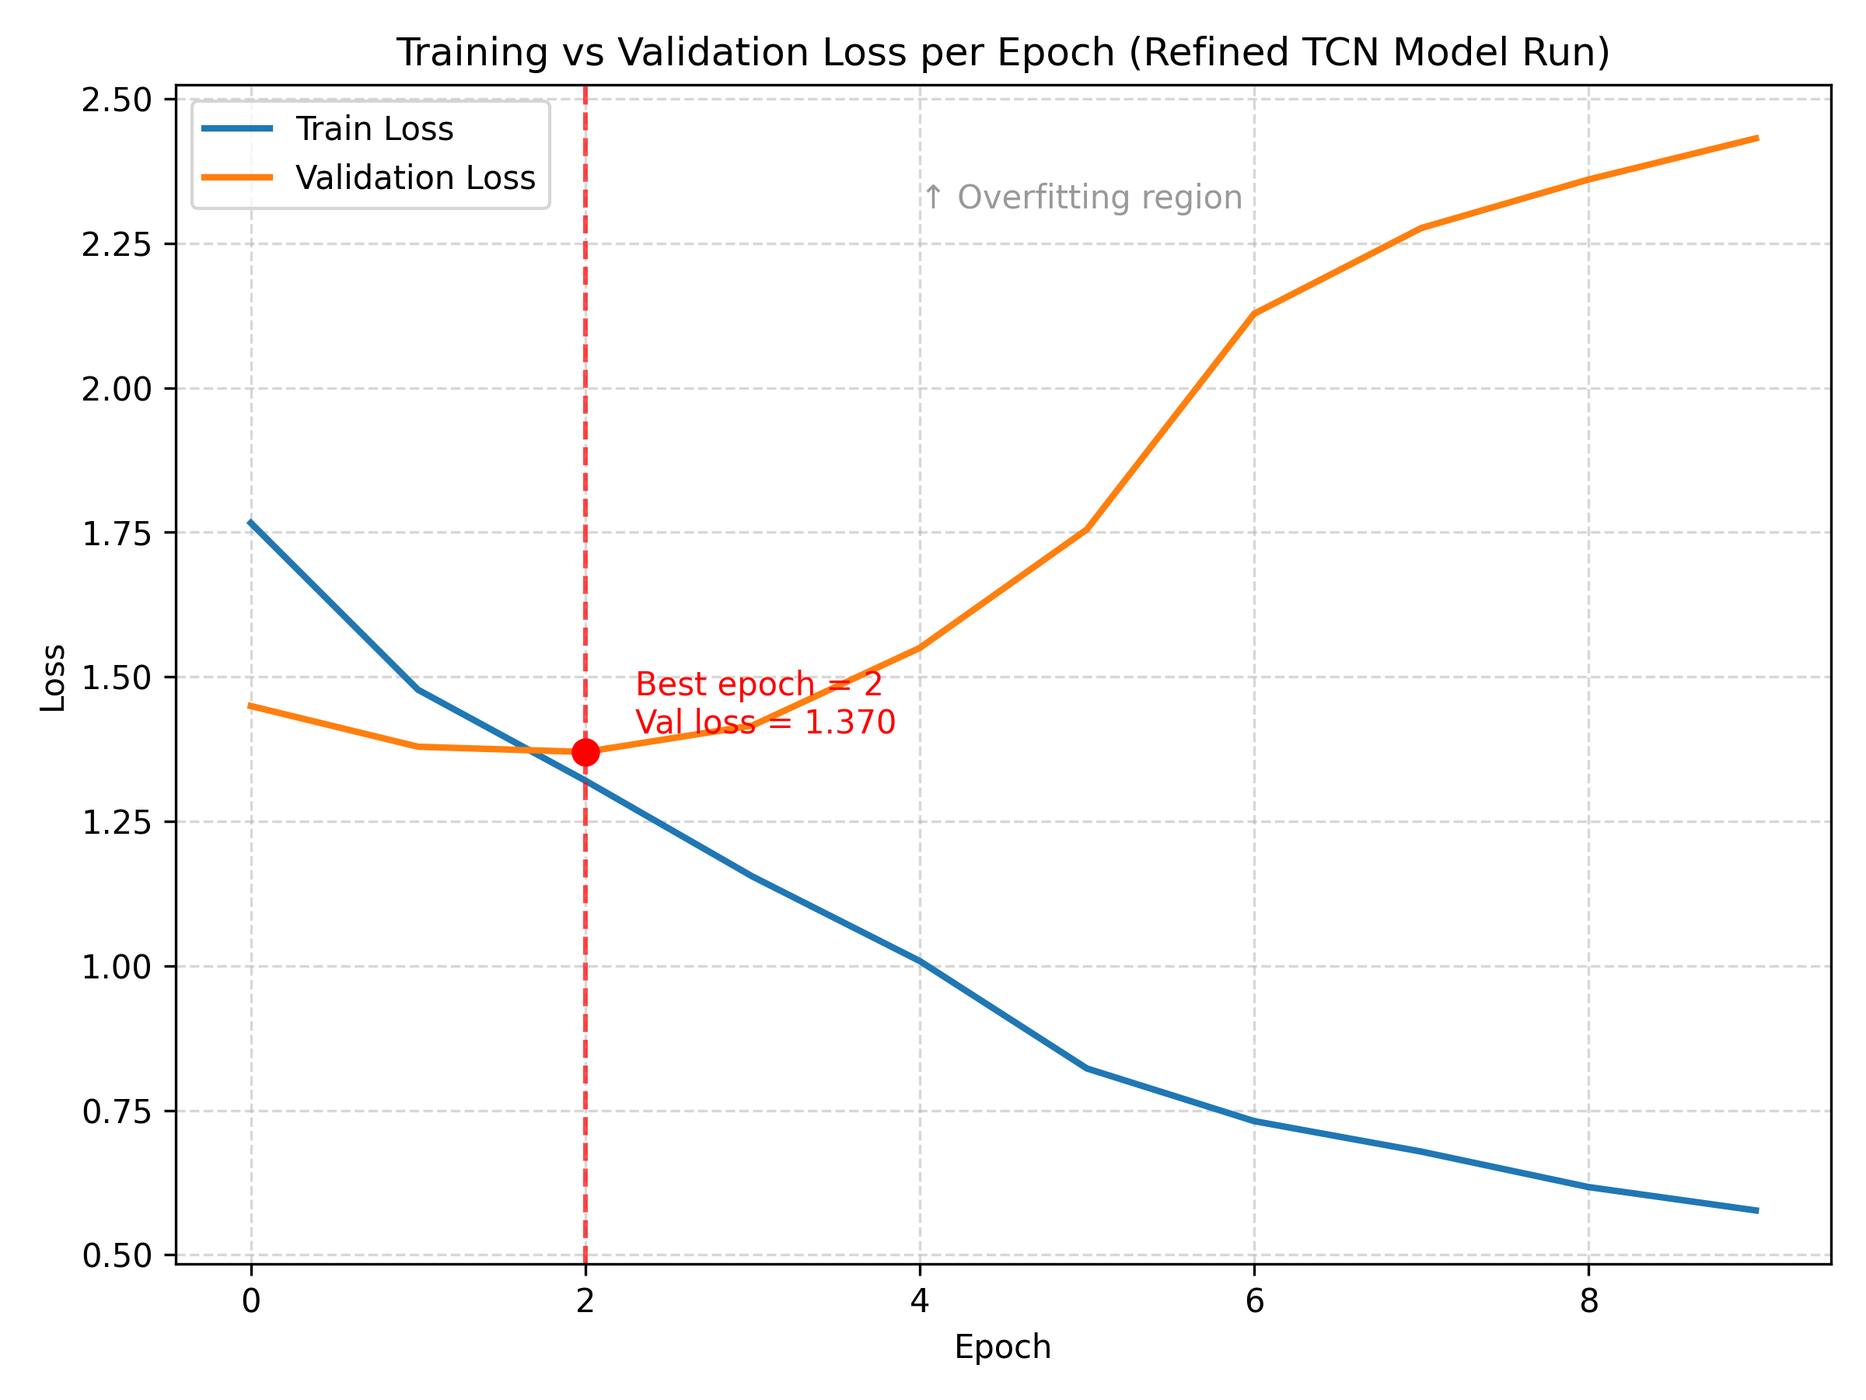
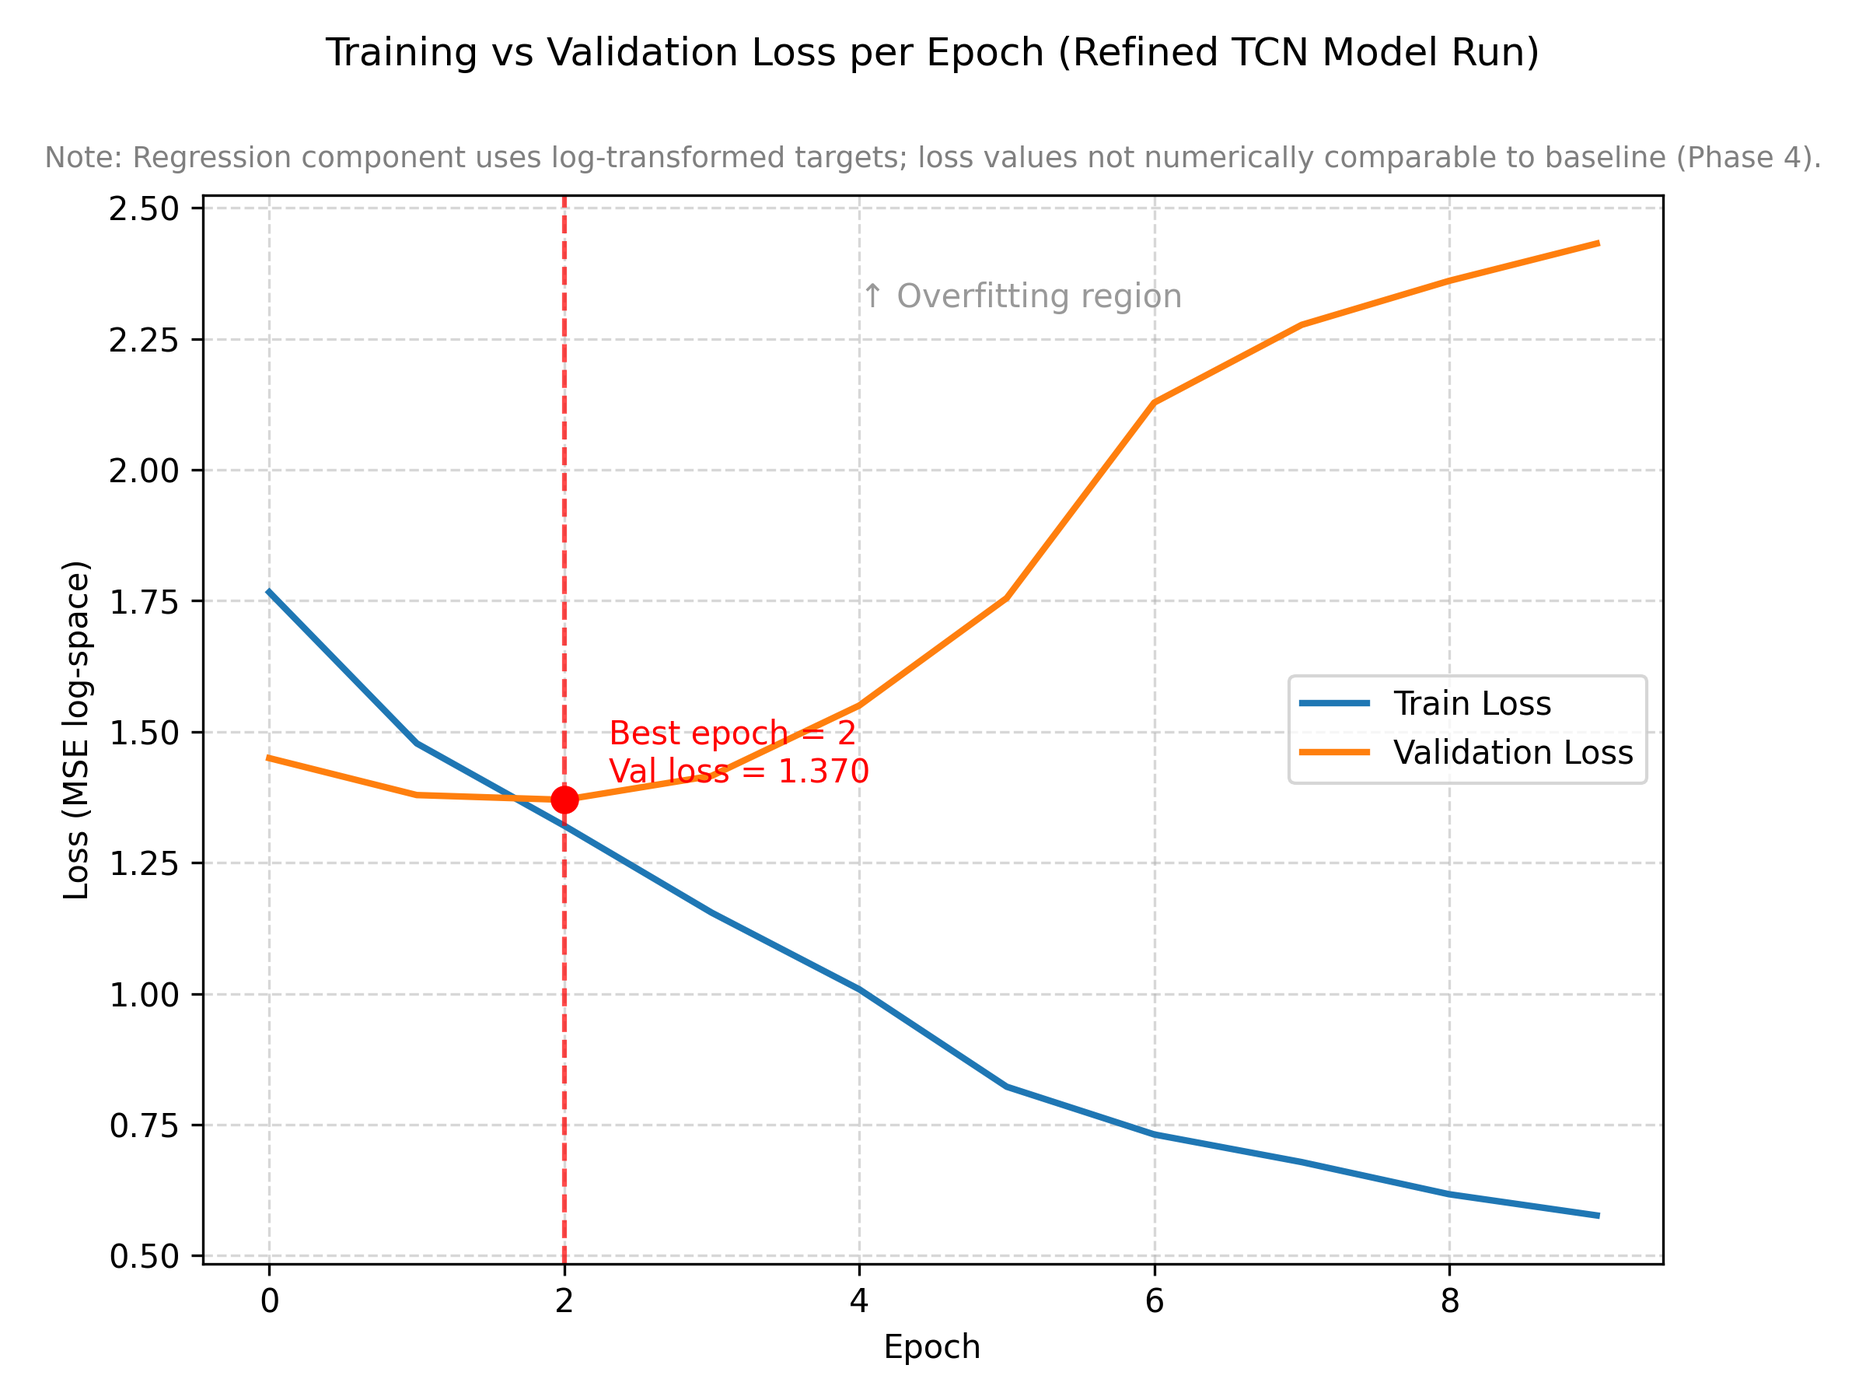
Day 27: Continue Phase 5: Evaluation of Refined TCN Model

diff --git a/src/prediction_evaluations/evaluate_tcn_testset_refined.py b/src/prediction_evaluations/evaluate_tcn_testset_refined.py
@@ -3,18 +3,19 @@
 """
 evaluate_tcn_testset_refined.py
 
-Title: Final Evaluation of Refined TCN on Held-Out Test Set
+Title: Final Evaluation of Refined TCN Model on Held-Out Test Set
 
 Summary:
-- Loads the best-performing TCN checkpoint (tcn_best.pt) from Phase 4.
-- Dynamically rebuilds the test targets (y_test) from patient-level CSV + split JSON.
-- Runs inference on the unseen test set (x_test, mask_test).
-- Computes classification + regression metrics via evaluation_metrics.py.
-- Saves patient-level predictions (CSV) and aggregated metrics (JSON).
-- Provides final, reproducible test-time performance for comparison vs. NEWS2 and LightGBM.
-Output:
-- results/tcn_metrics.json → summary of computed numeric performance metrics
-- results/tcn_predictions.csv → row-wise per-patient outputs (predictions + ground truth) 
+- Loads the retrained TCN checkpoint (tcn_best_refined.pt) from Phase 4.5.
+- Dynamically rebuilds test targets from patient-level CSV + JSON split.
+- Runs inference on unseen test data using refined architecture.
+- Applies inverse log-transform to regression predictions (log-transformed from phase 4.5).
+- Computes classification and regression metrics for reproducibility.
+- Saves refined predictions and metrics to dedicated results folder.
+
+Outputs:
+- prediction_evaluations/tcn_results_refined/tcn_metrics_refined.json
+- prediction_evaluations/tcn_results_refined/tcn_predictions_refined.csv
 """
 
 # -------------------------------------------------------------
@@ -26,16 +27,23 @@ from pathlib import Path              # Safe filesystem handling across OS
 import torch                          # Core deep learning library
 import json                           # For reading/writing JSON files (splits + metrics), saving metrics to JSON
 import pandas as pd                   # For tabular prediction outputs
+import numpy as np                    # For inverse log transform
 from time import time                 # Used to measure inference duration
 
 
-# --- Add src/ to sys.path so we can import packages directly ---
-SCRIPT_DIR = Path(__file__).resolve().parent               # src/prediction_evaluations
+# -------------------------------------------------------------
+# Path setup
+# -------------------------------------------------------------
+# Add src/ to sys.path so we can import packages directly
+SCRIPT_DIR = Path(__file__).resolve().parent                # src/prediction_evaluations
 SRC_DIR = SCRIPT_DIR.parent                                 # src/
 PROJECT_ROOT = SRC_DIR.parent                               # project root
 sys.path.append(str(SRC_DIR))                               # now Python can find ml_models_tcn, prediction_evaluations
 
-# --- Import reusable metric utilities (Phase 5 Step 0) ---
+# -------------------------------------------------------------
+# Imports from other project modules
+# -------------------------------------------------------------
+# --- Import reusable metric utilities (Phase 5)---
 # evaluation_metrics.py defines functions to compute metrics for classification and regression tasks.
 from prediction_evaluations.evaluation_metrics import (
     compute_classification_metrics,
@@ -49,10 +57,11 @@ from ml_models_tcn.tcn_model import TCNModel
 # -------------------------------------------------------------
 # Paths
 # -------------------------------------------------------------
-# Path to best TCN model checkpoint (saved during early stopping in Phase 4)
-TRAINED_MODEL_PATH = SRC_DIR / "ml_models_tcn" / "trained_models" / "tcn_best.pt"
+# Path to best TCN model weights (saved during early stopping in Phase 4.5) + Model config
+TRAINED_MODEL_PATH = SRC_DIR / "prediction_diagnostics" / "trained_models_refined" / "tcn_best_refined.pt"
+CONFIG_PATH = SRC_DIR / "prediction_diagnostics" / "trained_models_refined" / "config_refined.json"
 
-# Path to saved test tensors (input sequences + masks)
+# Path to saved test + mask tensors (input sequences + masks)
 TEST_DATA_DIR = SRC_DIR / "ml_models_tcn" / "prepared_datasets"
 
 # Path to rebuild y_test (patient-level labels for test set)
@@ -60,11 +69,24 @@ FEATURES_PATIENT_PATH = PROJECT_ROOT / "data" / "processed_data" / "news2_featur
 SPLITS_PATH = SRC_DIR / "ml_models_tcn" / "deployment_models" / "preprocessing" / "patient_splits.json"
 
 # Directory to save evaluation outputs (metrics + predictions)
-RESULTS_DIR = SRC_DIR / "prediction_evaluations" / "results"
+RESULTS_DIR = SRC_DIR / "prediction_evaluations" / "tcn_results_refined"
 RESULTS_DIR.mkdir(parents=True, exist_ok=True)
 
 # -------------------------------------------------------------
-# Dynamically rebuild y_test from patient-level data (same logic as phase 4 training)
+# Sanity Checks — ensure all expected files and configs exist
+# -------------------------------------------------------------
+assert TRAINED_MODEL_PATH.exists(), f"[ERROR] Missing model weights: {TRAINED_MODEL_PATH}"
+assert CONFIG_PATH.exists(), f"[ERROR] Missing config file: {CONFIG_PATH}"
+assert TEST_DATA_DIR.exists(), f"[ERROR] Missing test data directory: {TEST_DATA_DIR}"
+assert (TEST_DATA_DIR / "test.pt").exists(), "[ERROR] Missing test.pt file"
+assert (TEST_DATA_DIR / "test_mask.pt").exists(), "[ERROR] Missing test_mask.pt file"
+assert FEATURES_PATIENT_PATH.exists(), "[ERROR] Missing patient-level features CSV"
+assert SPLITS_PATH.exists(), "[ERROR] Missing patient_splits.json"
+
+print("[INFO] All required files found. Proceeding with refined model evaluation...")
+
+# -------------------------------------------------------------
+# Rebuild test labels dynamically
 # -------------------------------------------------------------
 # Dynamically rebuild y_test from CSV + JSON split (handles any class distribution)
 # Load patient-level feature dataframe and test split identifiers
@@ -103,17 +125,23 @@ print(f"[INFO] Using device: {device}")
 x_test = torch.load(TEST_DATA_DIR / "test.pt", map_location=device)
 mask_test = torch.load(TEST_DATA_DIR / "test_mask.pt", map_location=device)
 
+# Quick shape validation — ensure alignment between test IDs and tensor batch size
+assert x_test.shape[0] == len(test_ids), (
+    f"[ERROR] x_test has {x_test.shape[0]} patients, "
+    f"but test split defines {len(test_ids)}. Check patient_splits.json alignment."
+)
+
 # --- 2. Load the hyperparameters into the model architecture / structure ---
 # Model architecture defined in TCNModel imported from tcn_model.py, which needs hyperparameters to instantiate
-# Load architecture hyperparameters from config.json created during training (tcn_training_script.py)
-with open(SRC_DIR / "ml_models_tcn" / "trained_models" / "config.json") as f:
+# Load architecture hyperparameters from config_refined.json created during training (tcn_training_script_refined.py)
+with open(CONFIG_PATH) as f:
     config = json.load(f)
 arch = config["model_architecture"]
 
 # Automatically get feature dimension (171 features = input channels in first convolutional layer)
 NUM_FEATURES = x_test.shape[2] 
 
-# Instantiate the TCN model architecture (defined in tcn_model.py) with same hyperparameters as training (tcn_training_script.py)
+# Instantiate the TCN model architecture (defined in tcn_model.py) with same hyperparameters as training (tcn_training_script_refined.py)
 # Must match exactly what was used during training, otherwise the weight shapes won't align
 model = TCNModel(
     num_features=NUM_FEATURES,          # Input feature dimension (171 per-timestep features)
@@ -125,7 +153,7 @@ model = TCNModel(
 
 # --- 3. Load the trained model weights (tcn_best.pt) ---
 # Weights are the learned parameters (filters, biases) that the model adjusted during training to minimise loss
-# tcn_best.pt = serialized 'state_dict' containing all trained layer weights + biases (tensors)
+# tcn_best_refined.pt = serialized 'state_dict' containing all trained layer weights + biases (tensors)
 state_dict = torch.load(TRAINED_MODEL_PATH, map_location=device)
 # Copies the saved weights (state_dict) into the model architecture we just instantiated (model)
 model.load_state_dict(state_dict)
@@ -139,7 +167,7 @@ model.to(device)
 # Ensures consistent, deterministic, stable predictions during inference → no random dropout, no unstable normalisation (batchnorm updates)
 model.eval()
 
-print("[INFO] Loaded TCN model and weights successfully")
+print("[INFO] Loaded refined TCN model and weights successfully")
 
 # -------------------------------------------------------------
 # Inference (Testing)
@@ -196,6 +224,14 @@ y_true_median = y_test["median"].cpu().numpy()
 y_true_reg = y_test["reg"].cpu().numpy()
 
 # -------------------------------------------------------------
+# Inverse transform regression predictions (Phase 4.5 only)
+# -------------------------------------------------------------
+# Undo log1p() applied during phase 4.5 training → restore pct_time_high scale (only predictions were log-scaled)
+y_pred_reg = np.expm1(y_pred_reg)
+
+print("[INFO] Applied inverse log-transform (expm1) to regression *predictions* only.")
+
+# -------------------------------------------------------------
 # Compute Metrics
 # -------------------------------------------------------------
 """
@@ -220,9 +256,9 @@ all_metrics = {
 # Save Computed Metrics (JSON)
 # -------------------------------------------------------------
 # Write computed metrics to disk for documentation/reproducibility
-with open(RESULTS_DIR / "tcn_metrics.json", "w") as f:
+with open(RESULTS_DIR / "tcn_metrics_refined.json", "w") as f:
     json.dump(all_metrics, f, indent=4)
-print("[INFO] Saved metrics → results/tcn_metrics.json")
+print("[INFO] Saved metrics → tcn_results_refined/tcn_metrics_refined.json")
 
 # -------------------------------------------------------------
 # Save Predictions and Ground-Truth Arrays (CSV)
@@ -236,18 +272,19 @@ df_preds = pd.DataFrame({
     "y_true_median": y_true_median,
     "prob_median": prob_median,
     "y_true_reg": y_true_reg,
-    "y_pred_reg": y_pred_reg
+    "y_pred_reg_raw": preds_reg.numpy(),    # raw log-space prediction
+    "y_pred_reg": y_pred_reg                # inverse-transformed back to pct_time_high scale
 })
 
 # Save predictions for further analysis and reproducibility
-df_preds.to_csv(RESULTS_DIR / "tcn_predictions.csv", index=False)
-print("[INFO] Saved predictions → results/tcn_predictions.csv")
+df_preds.to_csv(RESULTS_DIR / "tcn_predictions_refined.csv", index=False)
+print("[INFO] Saved predictions → tcn_results_refined/tcn_predictions_refined.csv")
 
 # -------------------------------------------------------------
 # Display Summary
 # -------------------------------------------------------------
 # Print a quick on-screen summary of key results for easy inspection
-print("\n=== Final Test Metrics ===")
+print("\n=== Final Refined Test Metrics ===")
 print(f"Max Risk — AUC: {metrics_max['roc_auc']:.3f}, F1: {metrics_max['f1']:.3f}, Acc: {metrics_max['accuracy']:.3f}")
 print(f"Median Risk — AUC: {metrics_median['roc_auc']:.3f}, F1: {metrics_median['f1']:.3f}, Acc: {metrics_median['accuracy']:.3f}")
 print(f"Regression — RMSE: {metrics_reg['rmse']:.3f}, R²: {metrics_reg['r2']:.3f}")

diff --git a/src/prediction_diagnostics/plot_training_curves_refined.py b/src/prediction_diagnostics/plot_training_curves_refined.py
@@ -1,5 +1,3 @@
-# src/prediction_diagnostics/plot_training_curves_refined.py 
-
 """
 plot_training_curves_refined.py
 
@@ -81,14 +79,17 @@ plt.figure(figsize=(8, 6))  # Set figure size for readability
 plt.plot(train_loss_refined, label="Train Loss", linewidth=2)           # Plot training curve
 plt.plot(val_loss_refined, label="Validation Loss", linewidth=2)        # Plot validation curve
 plt.xlabel("Epoch")                                                     # X-axis label
-plt.ylabel("Loss")                                                      # Y-axis label
-plt.title("Training vs Validation Loss per Epoch (Refined TCN Model Run)")  # Title for clarity
+plt.ylabel("Loss (MSE log-space)")                                      # Y-axis label
+plt.title("Training vs Validation Loss per Epoch (Refined TCN Model Run)", pad=40)  # Title for clarity
+plt.text(0.5, 1.02,
+         "Note: Regression component uses log-transformed targets; loss values not numerically comparable to baseline (Phase 4).",
+         ha="center", va="bottom", fontsize=9, color="gray", transform=plt.gca().transAxes)
 plt.legend()                                                            # Show legend
 plt.grid(True, linestyle="--", alpha=0.5)                               # Add grid for easier interpretation
 plt.tight_layout()                                                      # Adjust layout to prevent cutoff labels
 
 # -------------------------------------------------------------
-# Add Key Annotations for interpretability (Phase 4.5)
+# Plot 1 –Add Key Annotations for interpretability (Phase 4.5)
 # -------------------------------------------------------------
 # Draw a vertical red dashed line at the best validation epoch
 plt.axvline(best_epoch_refined, color="red", linestyle="--", alpha=0.7, label="Best (Early Stop)")
@@ -108,7 +109,7 @@ if len(val_loss_refined) > best_epoch_refined + 2:
              color="gray", fontsize=10, alpha=0.8)
     
 # -------------------------------------------------------------
-# Save Refined Plot (Phase 4.5)
+# Plot 1 – Save Refined Plot (Phase 4.5)
 # -------------------------------------------------------------
 # Save refined figure in high resolution
 plt.savefig(PLOT_DIR / "loss_curve_refined.png", dpi=300)
@@ -128,22 +129,24 @@ print("[INFO] Saved refined loss plot → loss_plots/loss_curve_refined.png")
 plt.figure(figsize=(8, 6))
 
 # Phase 4 curves (dashed, lighter)
-plt.plot(train_loss_original, label="Baseline — Train", linestyle="--", color="blue", alpha=0.6)
-plt.plot(val_loss_original, label="Baseline — Val", linestyle="--", color="orange", alpha=0.6)
+plt.plot(train_loss_original, label="Baseline — Train (raw)", linestyle="--", color="blue", alpha=0.6)
+plt.plot(val_loss_original, label="Baseline — Val (raw)", linestyle="--", color="orange", alpha=0.6)
 
 # Phase 4.5 curves (solid, darker)
-plt.plot(train_loss_refined, label="Refined — Train", linewidth=2, color="blue")
-plt.plot(val_loss_refined, label="Refined — Val", linewidth=2, color="orange")
+plt.plot(train_loss_refined, label="Refined — Train (log)", linewidth=2, color="blue")
+plt.plot(val_loss_refined, label="Refined — Val (log)", linewidth=2, color="orange")
 
 plt.xlabel("Epoch")
-plt.ylabel("Loss")
-plt.title("TCN Training vs Validation Loss — Baseline vs Refined")
+plt.ylabel("Composite Loss (raw vs log-space — compare trends only)")
+plt.title("TCN Training vs Validation Loss — Baseline vs Refined (Trend Comparison Only)", pad=40)
+plt.text(0.5, 1.02,
+         "Note: Regression losses differ by scale (Phase 4 raw vs Phase 4.5 log-space).",
+         ha="center", va="bottom", fontsize=9, color="gray", transform=plt.gca().transAxes)
 plt.legend()
 plt.grid(True, linestyle="--", alpha=0.4)
-plt.tight_layout()
 
 # -------------------------------------------------------------
-# Add Key Annotations for interpretability (Comparison)
+# Plot 2 - Add Key Annotations for interpretability (Comparison)
 # -------------------------------------------------------------
 # Annotate minima
 plt.scatter(best_epoch_original, best_val_original, color="orange", s=50, zorder=5)
@@ -155,9 +158,22 @@ plt.text(best_epoch_refined + 0.3, best_val_refined + 0.02,
          f"Refined best\n(Epoch {best_epoch_refined})",
          color="red", fontsize=9, verticalalignment="bottom")
 
+# Reserve just enough space below the plot (minimal padding)
+plt.subplots_adjust(bottom=0.5)
+
+# Add the disclaimer just below the x-axis, centred and compact
+plt.figtext(
+    0.5, 0.05,  # slightly lower and tighter
+    "Disclaimer: Phase 4.5 regression losses are log-transformed; visual overlay is for trend comparison only.",
+    ha="center", va="bottom", fontsize=9, color="gray"
+)
+
 # -------------------------------------------------------------
-# Save Comparison Plot (Phase 4 vs Phase 4.5)
+# Plot 2 – Save Comparison Plot (Phase 4 vs Phase 4.5)
 # -------------------------------------------------------------
+# Adjust layout to leave space for disclaimer
+plt.tight_layout(rect=[0.02, 0.14, 0.98, 0.92])  
+
 # Save combined plot
 plt.savefig(PLOT_DIR / "loss_curve_comparison.png", dpi=300)
 plt.show()

diff --git a/src/prediction_evaluations/evaluate_tcn_testset.py b/src/prediction_evaluations/evaluate_tcn_testset.py
@@ -13,8 +13,8 @@ Summary:
 - Saves patient-level predictions (CSV) and aggregated metrics (JSON).
 - Provides final, reproducible test-time performance for comparison vs. NEWS2 and LightGBM.
 Output:
-- results/tcn_metrics.json → summary of computed numeric performance metrics
-- results/tcn_predictions.csv → row-wise per-patient outputs (predictions + ground truth) 
+- tcn_results/tcn_metrics.json → summary of computed numeric performance metrics
+- tcn_results/tcn_predictions.csv → row-wise per-patient outputs (predictions + ground truth) 
 """
 
 # -------------------------------------------------------------
@@ -60,7 +60,7 @@ FEATURES_PATIENT_PATH = PROJECT_ROOT / "data" / "processed_data" / "news2_featur
 SPLITS_PATH = SRC_DIR / "ml_models_tcn" / "deployment_models" / "preprocessing" / "patient_splits.json"
 
 # Directory to save evaluation outputs (metrics + predictions)
-RESULTS_DIR = SRC_DIR / "prediction_evaluations" / "results"
+RESULTS_DIR = SRC_DIR / "prediction_evaluations" / "tcn_results"
 RESULTS_DIR.mkdir(parents=True, exist_ok=True)
 
 # -------------------------------------------------------------
@@ -222,7 +222,7 @@ all_metrics = {
 # Write computed metrics to disk for documentation/reproducibility
 with open(RESULTS_DIR / "tcn_metrics.json", "w") as f:
     json.dump(all_metrics, f, indent=4)
-print("[INFO] Saved metrics → results/tcn_metrics.json")
+print("[INFO] Saved metrics → tcn_results/tcn_metrics.json")
 
 # -------------------------------------------------------------
 # Save Predictions and Ground-Truth Arrays (CSV)
@@ -241,7 +241,7 @@ df_preds = pd.DataFrame({
 
 # Save predictions for further analysis and reproducibility
 df_preds.to_csv(RESULTS_DIR / "tcn_predictions.csv", index=False)
-print("[INFO] Saved predictions → results/tcn_predictions.csv")
+print("[INFO] Saved predictions → tcn_results/tcn_predictions.csv")
 
 # -------------------------------------------------------------
 # Display Summary
